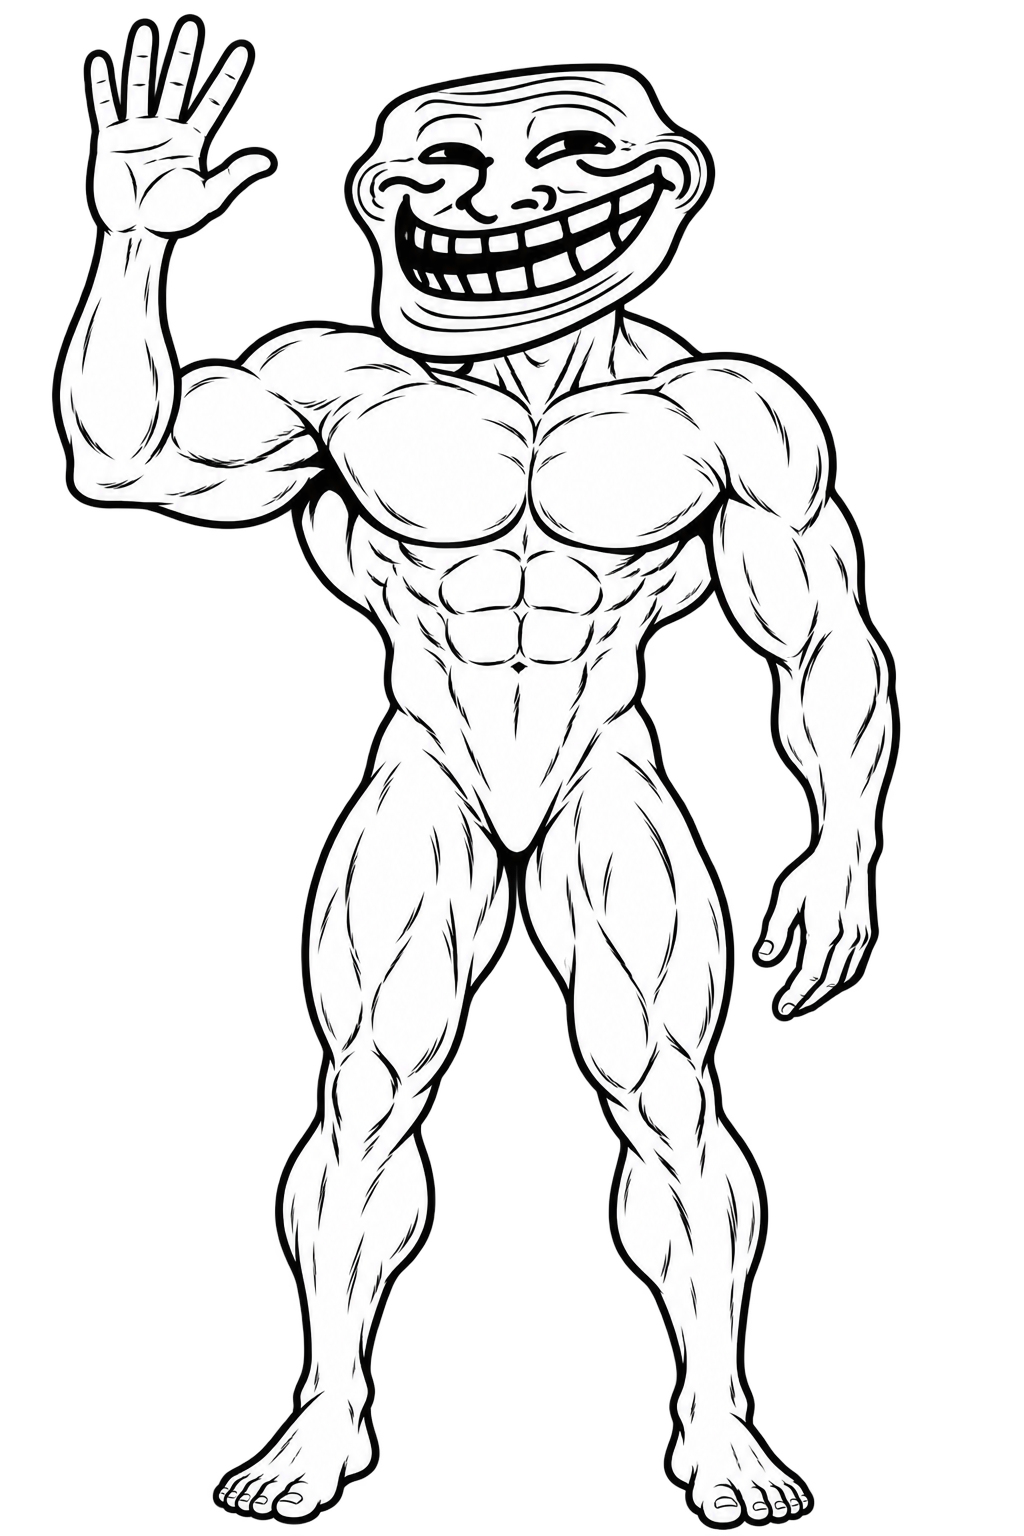
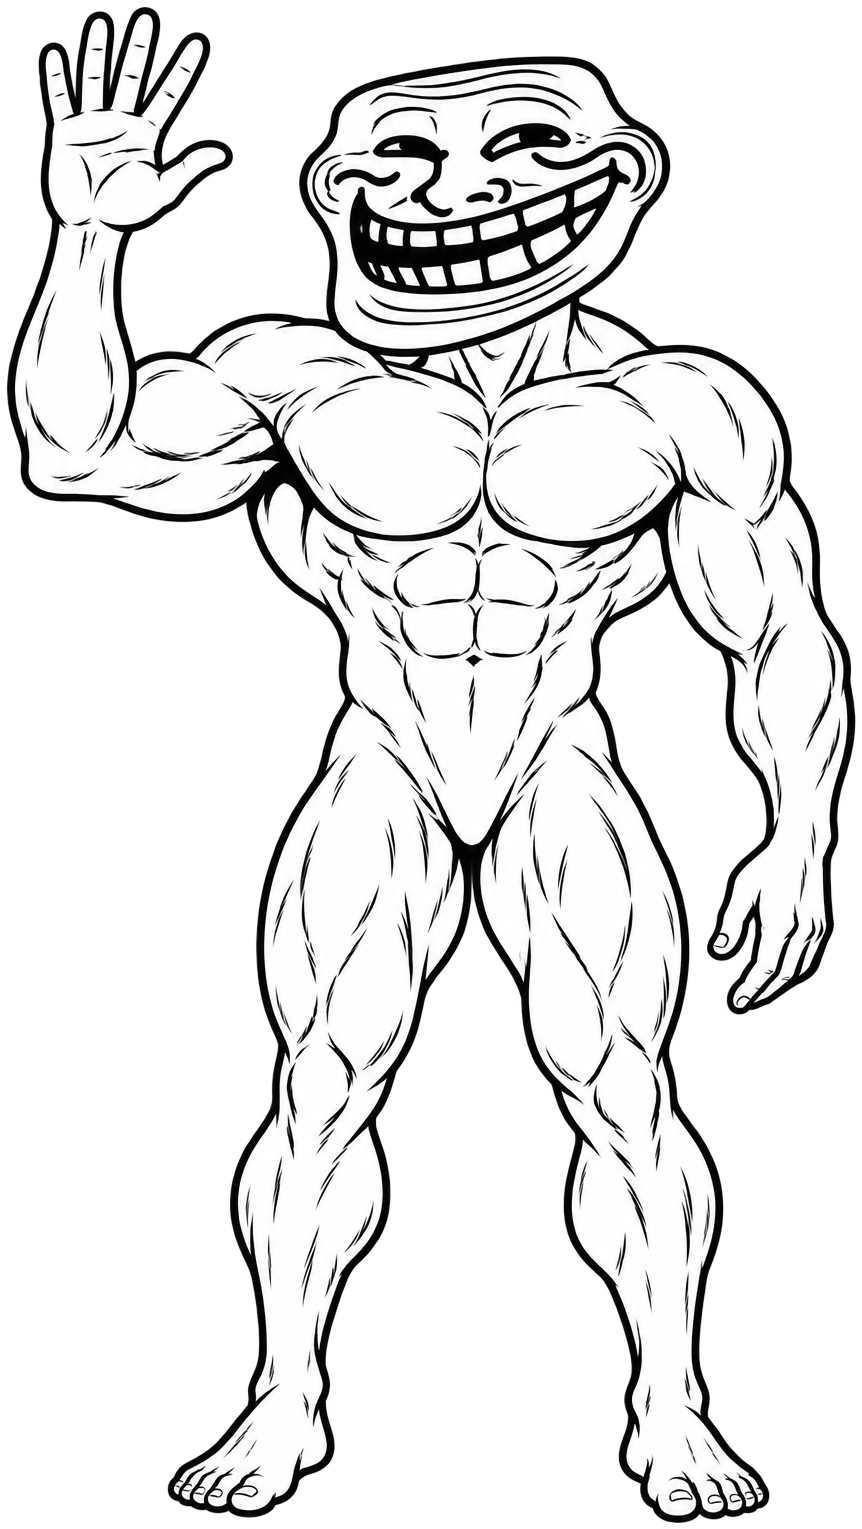
Add idle-wave/running/sad mood states to the run-to-enter troll

Changed region(s): [[0.0, 0.0, 0.9954, 1.0]]

diff --git a/world.html b/world.html
@@ -467,6 +467,19 @@
     }
     .runner:active { cursor: grabbing; }
     .runner img { width: 42px; height: 42px; object-fit: contain; pointer-events: none; }
+    /* Idle wave loops only while the idle pose is showing — gated on
+       .mood-idle rather than drag state, so a keyboard-triggered sprint
+       (no pointer drag involved) doesn't inherit the bob too. */
+    .runner.mood-idle img {
+      animation: runner-idle-bob 1.8s ease-in-out infinite;
+    }
+    @keyframes runner-idle-bob {
+      0%, 100% { transform: translateY(0) rotate(0deg); }
+      50% { transform: translateY(-2px) rotate(-4deg); }
+    }
+    @media (prefers-reduced-motion: reduce) {
+      .runner img { animation: none !important; }
+    }
     .lock-hint {
       font-family: var(--font-mono); font-size: 11px; color: var(--fg-dim);
       letter-spacing: .08em; text-transform: uppercase;
@@ -1593,9 +1606,9 @@
         <div class="track-fill" id="track-fill"></div>
         <div class="finish" aria-hidden="true"></div>
         <div class="track-label" id="track-label"></div>
-        <div class="runner" id="runner" role="button" tabindex="0"
+        <div class="runner mood-idle" id="runner" role="button" tabindex="0"
              aria-label="Run to enter — drag right, or press Enter">
-          <img src="assets/images/world/trollrunner.png" alt="">
+          <img src="assets/images/world/trollrunner-idle.png" alt="" id="runner-img">
         </div>
       </div>
       <p class="lock-hint" id="lock-hint">Drag the troll to the finish line</p>
@@ -2959,10 +2972,35 @@
        handle is the runner, the bar is a lane with a chequered finish, and
        the readout counts distance up as you go. Keyboard users get the same
        thing on arrow keys or Enter, because a drag-only door locks people out. */
-    const track = $('track'), runner = $('runner');
+    const track = $('track'), runner = $('runner'), runnerImg = $('runner-img');
     const fill = $('track-fill'), label = $('track-label'), hint = $('lock-hint');
     const RACE_MILES = 1.0;
     let progress = 0, dragging = false, startX = 0, startProgress = 0, done = false;
+
+    // Three static poses stand in for a real sprite animation: idle waves
+    // on a CSS loop (see .runner.mood-idle img) whenever nobody's holding
+    // it, running shows while the drag is actually advancing, and sad
+    // kicks in if the pointer stays down without moving — a thumb resting
+    // on the troll rather than swiping it. setMood() no-ops on repeat
+    // calls so it's safe to call every pointermove without thrashing the img.
+    const POSE = {
+      idle: 'assets/images/world/trollrunner-idle.png',
+      running: 'assets/images/world/trollrunner.png',
+      sad: 'assets/images/world/trollrunner-sad.png',
+    };
+    let mood = 'idle';
+    function setMood(next) {
+      if (next === mood) return;
+      mood = next;
+      runnerImg.src = POSE[next];
+      runner.classList.toggle('mood-idle', next === 'idle');
+    }
+    let stallTimer = null;
+    const STALL_MS = 260;
+    function armStallTimer() {
+      clearTimeout(stallTimer);
+      stallTimer = setTimeout(() => { if (dragging && !done) setMood('sad'); }, STALL_MS);
+    }
 
     const travel = () => track.clientWidth - runner.offsetWidth - 10;
 
@@ -2980,6 +3018,8 @@
     function finish() {
       if (done) return;
       done = true;
+      clearTimeout(stallTimer);
+      setMood('running');
       progress = 1; render();
       label.innerHTML = '<span class="dist">Finished</span>';
       hint.textContent = 'Welcome to the island';
@@ -3002,6 +3042,7 @@
     // "drag the troll to the finish line": it wasn't a swipe at all.
     function sprint() {
       if (done) return;
+      setMood('running');
       const from = progress, start = performance.now(), ms = calm.matches ? 0 : 620;
       hint.textContent = 'Running…';
       (function step(now) {
@@ -3016,16 +3057,22 @@
     runner.addEventListener('pointerdown', e => {
       if (done) return;
       dragging = true; moved = false; startX = e.clientX; startProgress = progress;
+      setMood('running');
+      armStallTimer();
       try { runner.setPointerCapture(e.pointerId); } catch {}
     });
     runner.addEventListener('pointermove', e => {
       if (!dragging || done) return;
       if (Math.abs(e.clientX - startX) > 6) moved = true;
+      setMood('running');
+      armStallTimer();
       setProgress(startProgress + (e.clientX - startX) / travel());
     });
     const release = () => {
       if (!dragging) return;
       dragging = false;
+      clearTimeout(stallTimer);
+      if (!done) setMood('idle');
       // Barely moved? That was a tap, not a swipe — nothing to finish, just
       // stay put (progress is already ~0, so this is a no-op in practice).
       if (!moved && !done) return;

diff --git a/index.html b/index.html
@@ -132,7 +132,7 @@
       // needed for the forcedMobile case (a desktop viewport opting into
       // this shell), and harmless for a genuine phone, which already
       // computes the same layout naturally.
-      '</head><body><iframe id="troll-entrance" src="/world.html?embed=1&mobile=1&v=20260824e' + openHubParam + enterParam + '" title="TrollRunner" onload="this.focus()"></iframe></body></html>'
+      '</head><body><iframe id="troll-entrance" src="/world.html?embed=1&mobile=1&v=20260824f' + openHubParam + enterParam + '" title="TrollRunner" onload="this.focus()"></iframe></body></html>'
     );
     document.close();
   }
